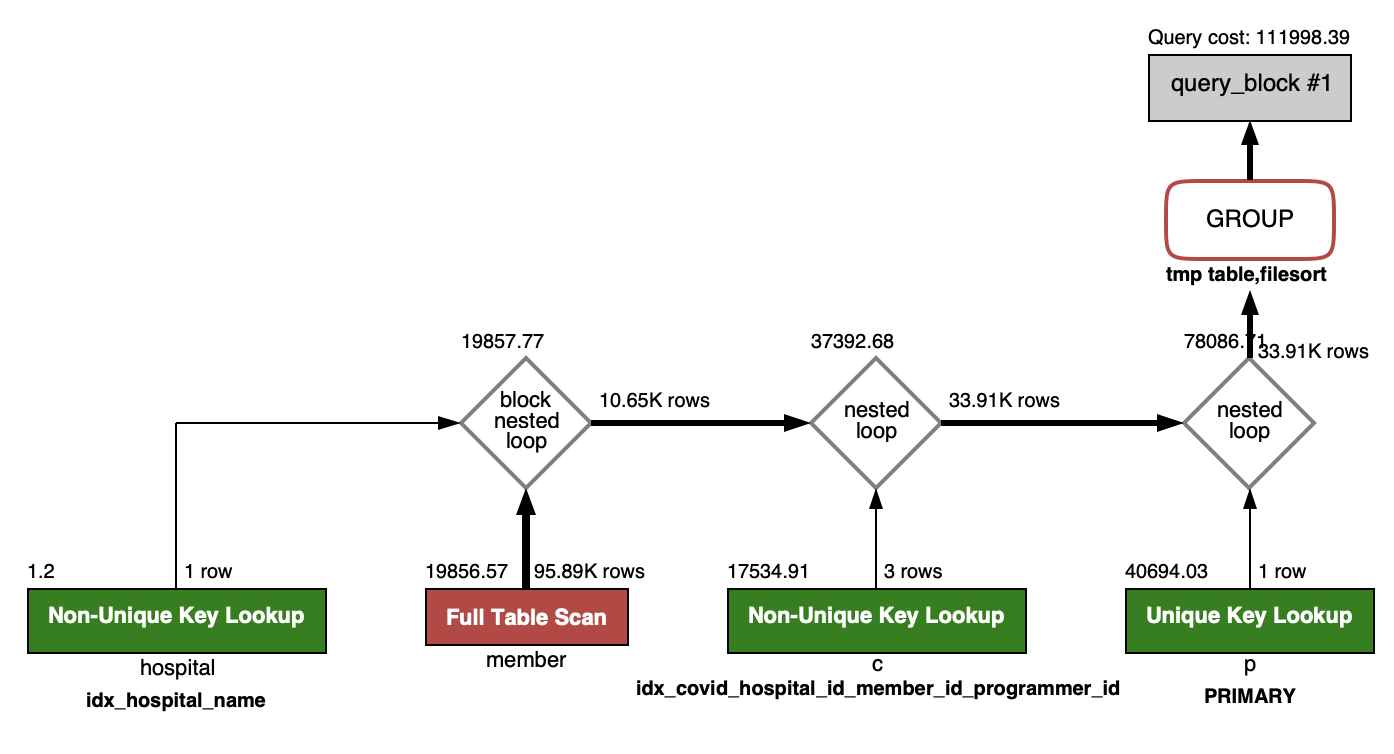
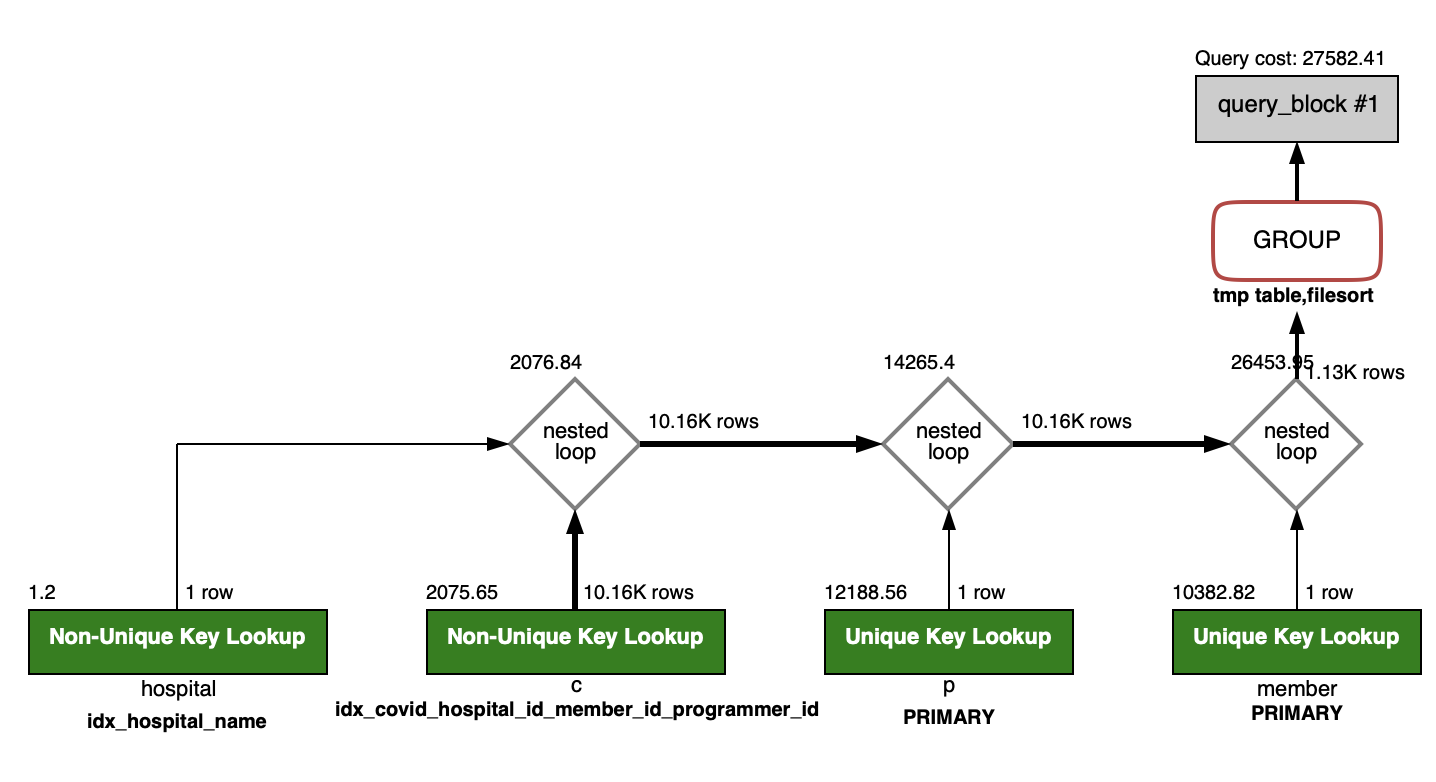
docs(README.md): 5번 문제 - 인덱스 컬럼 순서 변경

Changed region(s): [[0.0308, 0.0305, 0.9871, 0.9456], [0.802, 0.7321, 1.0, 0.9456]]

diff --git a/README.md b/README.md
@@ -258,7 +258,7 @@ GROUP BY c.stay
     - PK 생성 2 : hospital.id
     - PK 생성 3 : programmer.id
     - PK 생성 4 : member.id
-    - 인덱스 추가 1 : covid = member_id, hospital_id, covid.programmer_id
+    - 인덱스 추가 1 : covid = hospital_id, member_id, covid.programmer_id
     - 인덱스 추가 2 : hospital.name
 ```sql
 SELECT user.exercise, COUNT(user.exercise) AS count
